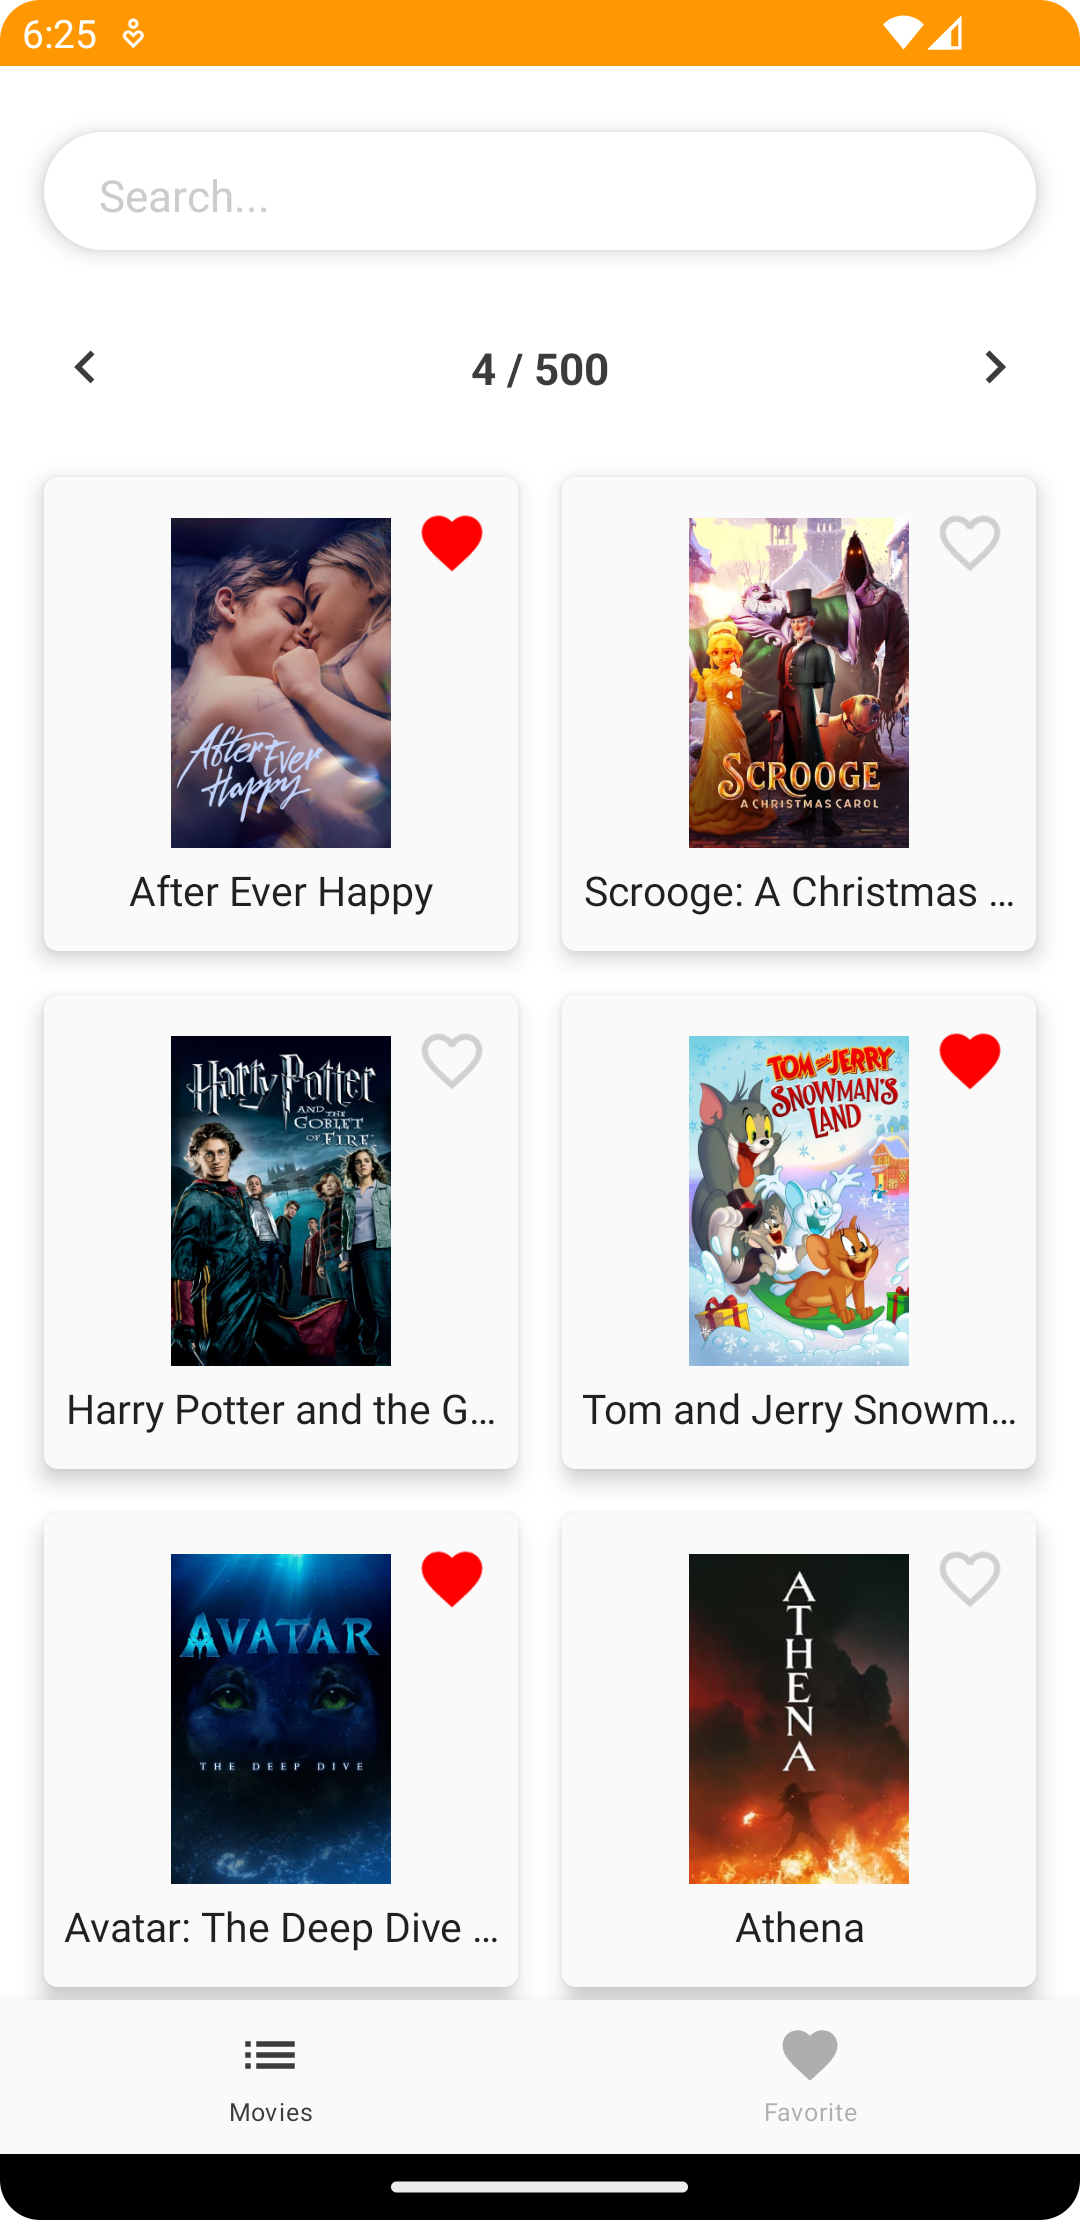
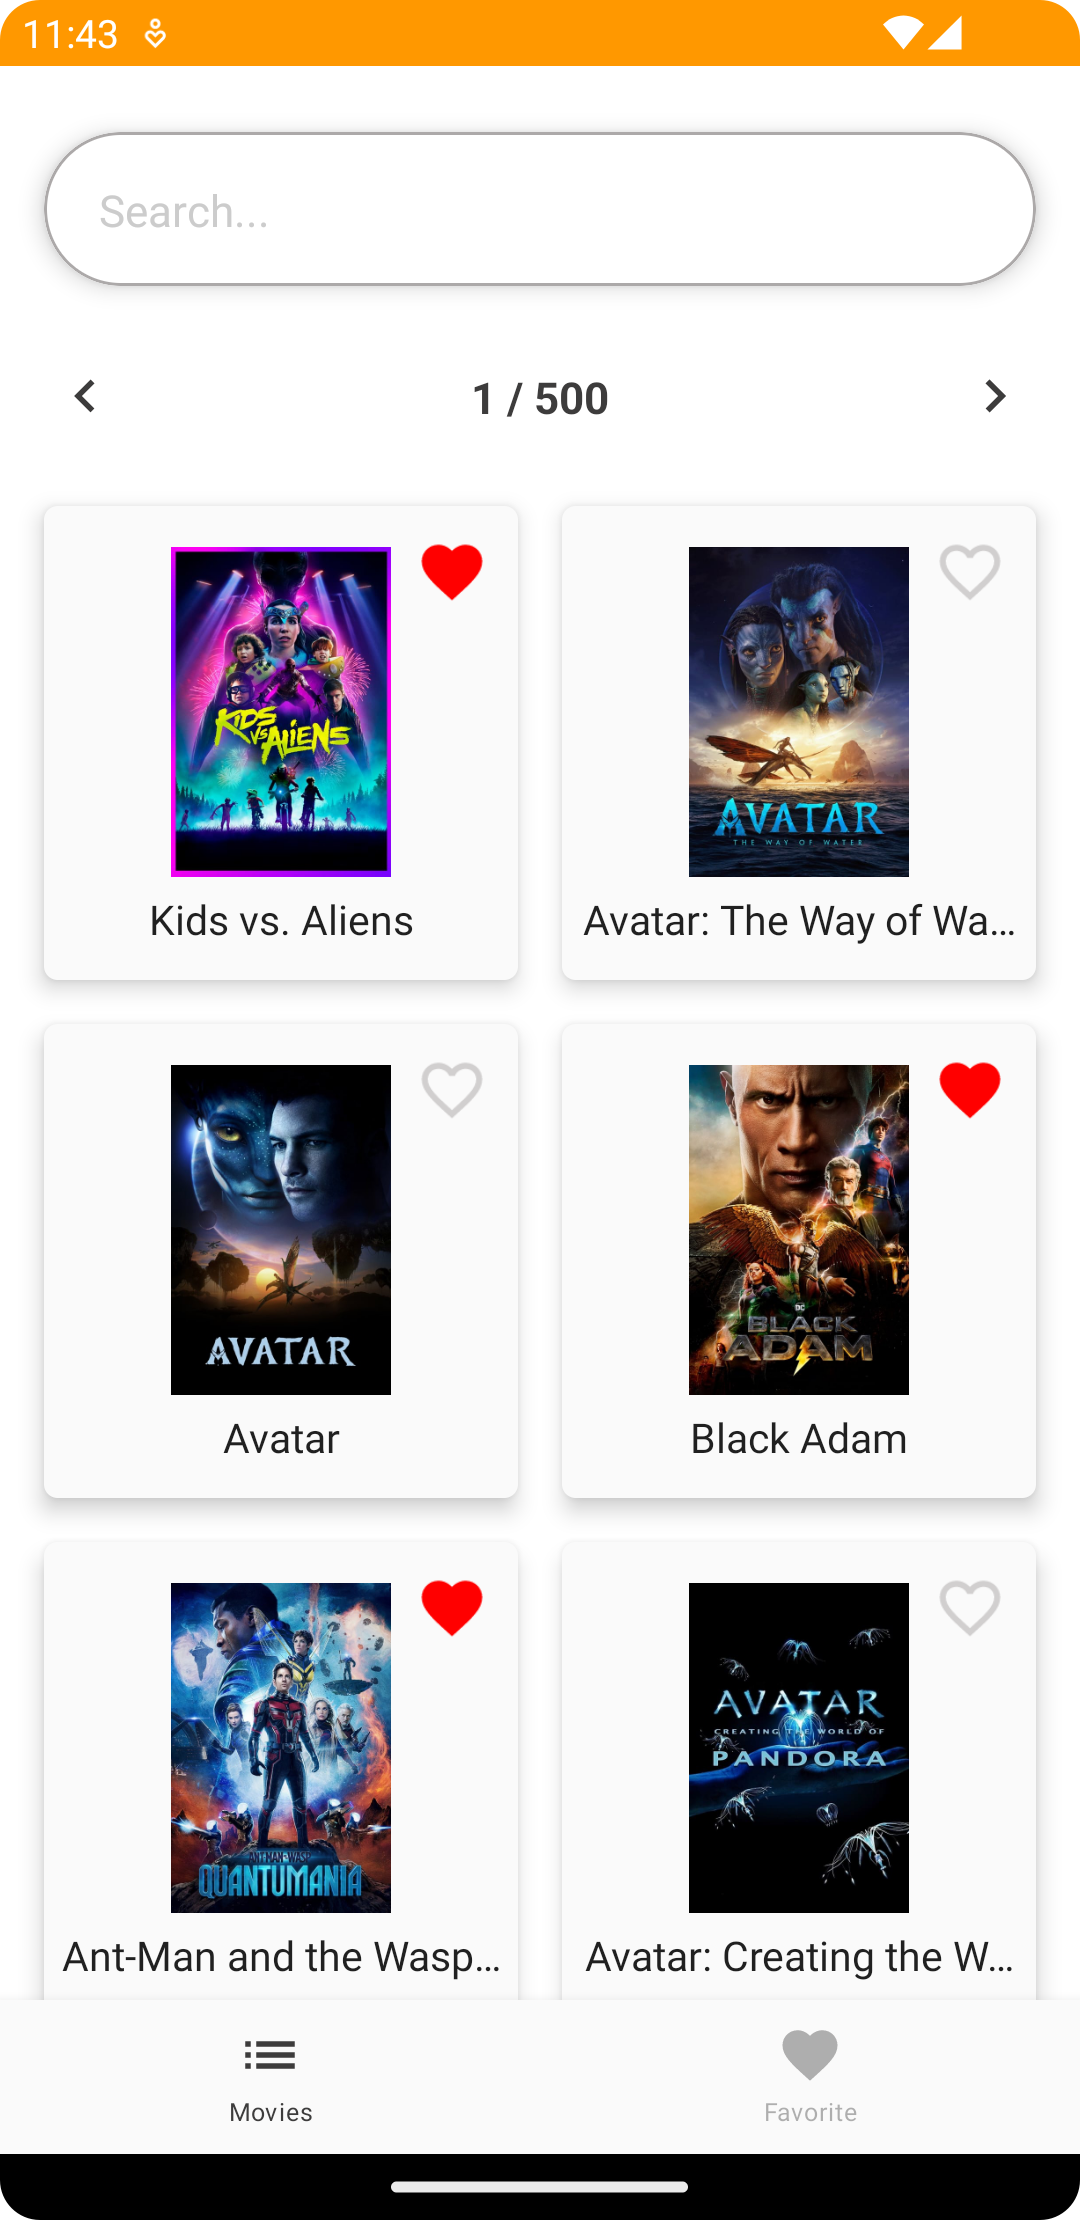
SearchBar Refinement

diff --git a/app/src/main/java/levilin/moviedatabase/ui/component/SearchBar.kt b/app/src/main/java/levilin/moviedatabase/ui/component/SearchBar.kt
@@ -1,6 +1,7 @@
 package levilin.moviedatabase.ui.component
 
 import androidx.compose.foundation.BorderStroke
+import androidx.compose.foundation.background
 import androidx.compose.foundation.border
 import androidx.compose.foundation.layout.Box
 import androidx.compose.foundation.layout.fillMaxWidth
@@ -31,6 +32,7 @@ import androidx.compose.ui.unit.sp
 import levilin.moviedatabase.R
 import levilin.moviedatabase.ui.theme.buttonIconColor
 import levilin.moviedatabase.ui.theme.screenTextColor
+import levilin.moviedatabase.ui.theme.searchBarBorderColor
 import levilin.moviedatabase.utility.ConstantValue
 import levilin.moviedatabase.viewmodel.SharedViewModel
 
@@ -83,10 +85,11 @@ fun SearchBar(modifier: Modifier = Modifier, hint: String = "", viewModel: Share
             modifier = Modifier
                 .fillMaxWidth()
                 .shadow(5.dp, CircleShape)
+                .background(color = MaterialTheme.colors.background)
                 .border(
                     border = BorderStroke(
                         width = 1.dp,
-                        color = MaterialTheme.colors.screenTextColor
+                        color = MaterialTheme.colors.searchBarBorderColor
                     ), shape = RoundedCornerShape(50)
                 )
                 .align(Alignment.Center)

diff --git a/app/src/main/java/levilin/moviedatabase/ui/theme/Color.kt b/app/src/main/java/levilin/moviedatabase/ui/theme/Color.kt
@@ -44,3 +44,7 @@ val Colors.indicatorRed: Color
 val Colors.indicatorGreen: Color
     @Composable
     get() = if (isLight) Color.Green else LightGreen
+
+val Colors.searchBarBorderColor: Color
+    @Composable
+    get() = if (isLight) MediumGray else LightGray
